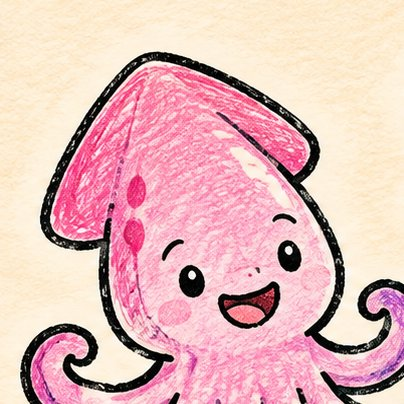
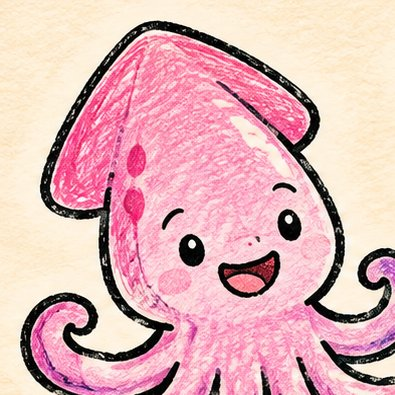
Stop clipping Squiddo's tentacles, show the full character
My earlier crop boundary (x=345) was cutting off Squiddo's own
rightmost tentacle curl, not just avoiding the neighboring bull -
the bull doesn't actually start until ~x=400. Re-cropped using the
correct boundary so nothing of Squiddo's own art is lost.

Added a dedicated hero asset (char-squiddo-hero.jpg) that is a full,
uncropped portrait of the character - every tentacle curl and the
ground shadow intact, matching the source illustration - and sized it
down to fit the circular medallion via contain instead of forcing it
into a square crop that trimmed the bottom of the tentacles. The
friend-card square crop (char-squiddo.jpg) is also corrected to the
new right boundary.

diff --git a/index.html b/index.html
@@ -49,7 +49,7 @@
     <div class="hero__art">
       <img class="hero__playhouse" src="assets/playhouse-silhouette.svg" alt="" width="604" height="510">
       <div class="hero__medallion">
-        <img src="assets/char-squiddo.jpg" alt="Squiddo the pink squid mascot">
+        <img src="assets/char-squiddo-hero.jpg" alt="Squiddo the pink squid mascot">
       </div>
       <div class="hero__bubble">
         <p>Hi, I&rsquo;m Squiddo!</p>

diff --git a/css/style.css b/css/style.css
@@ -212,7 +212,7 @@ h1, h2, h3, p { margin: 0; }
 .hero__medallion img {
   width: 100%;
   height: 100%;
-  padding: 11%;
+  padding: 5%;
   box-sizing: border-box;
   object-fit: contain;
   object-position: 50% 50%;
